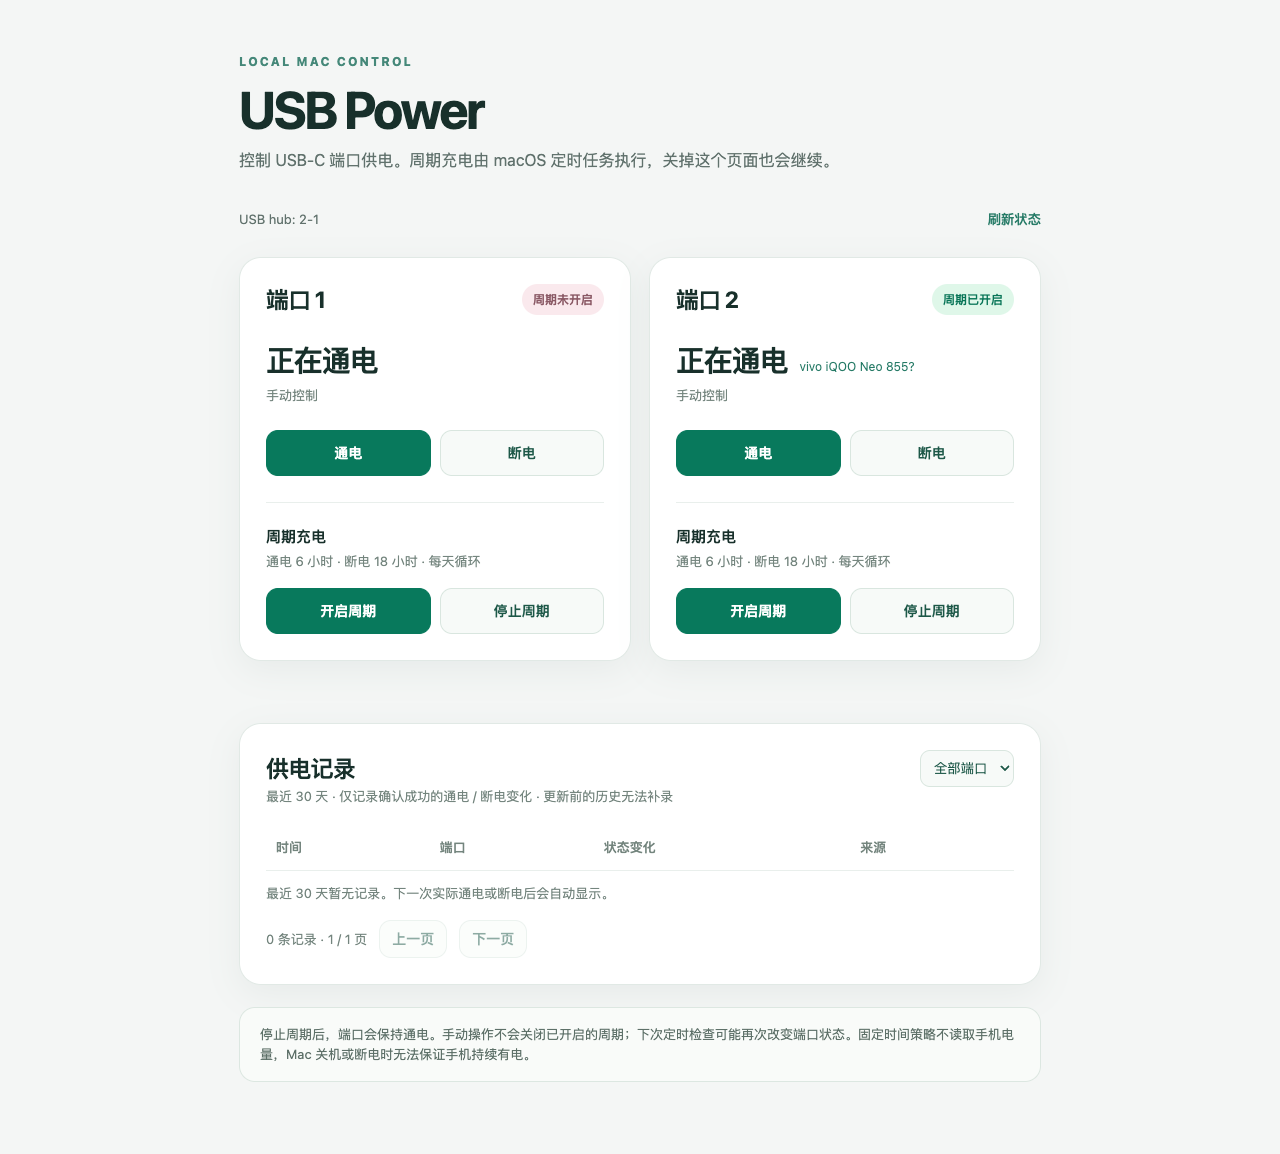
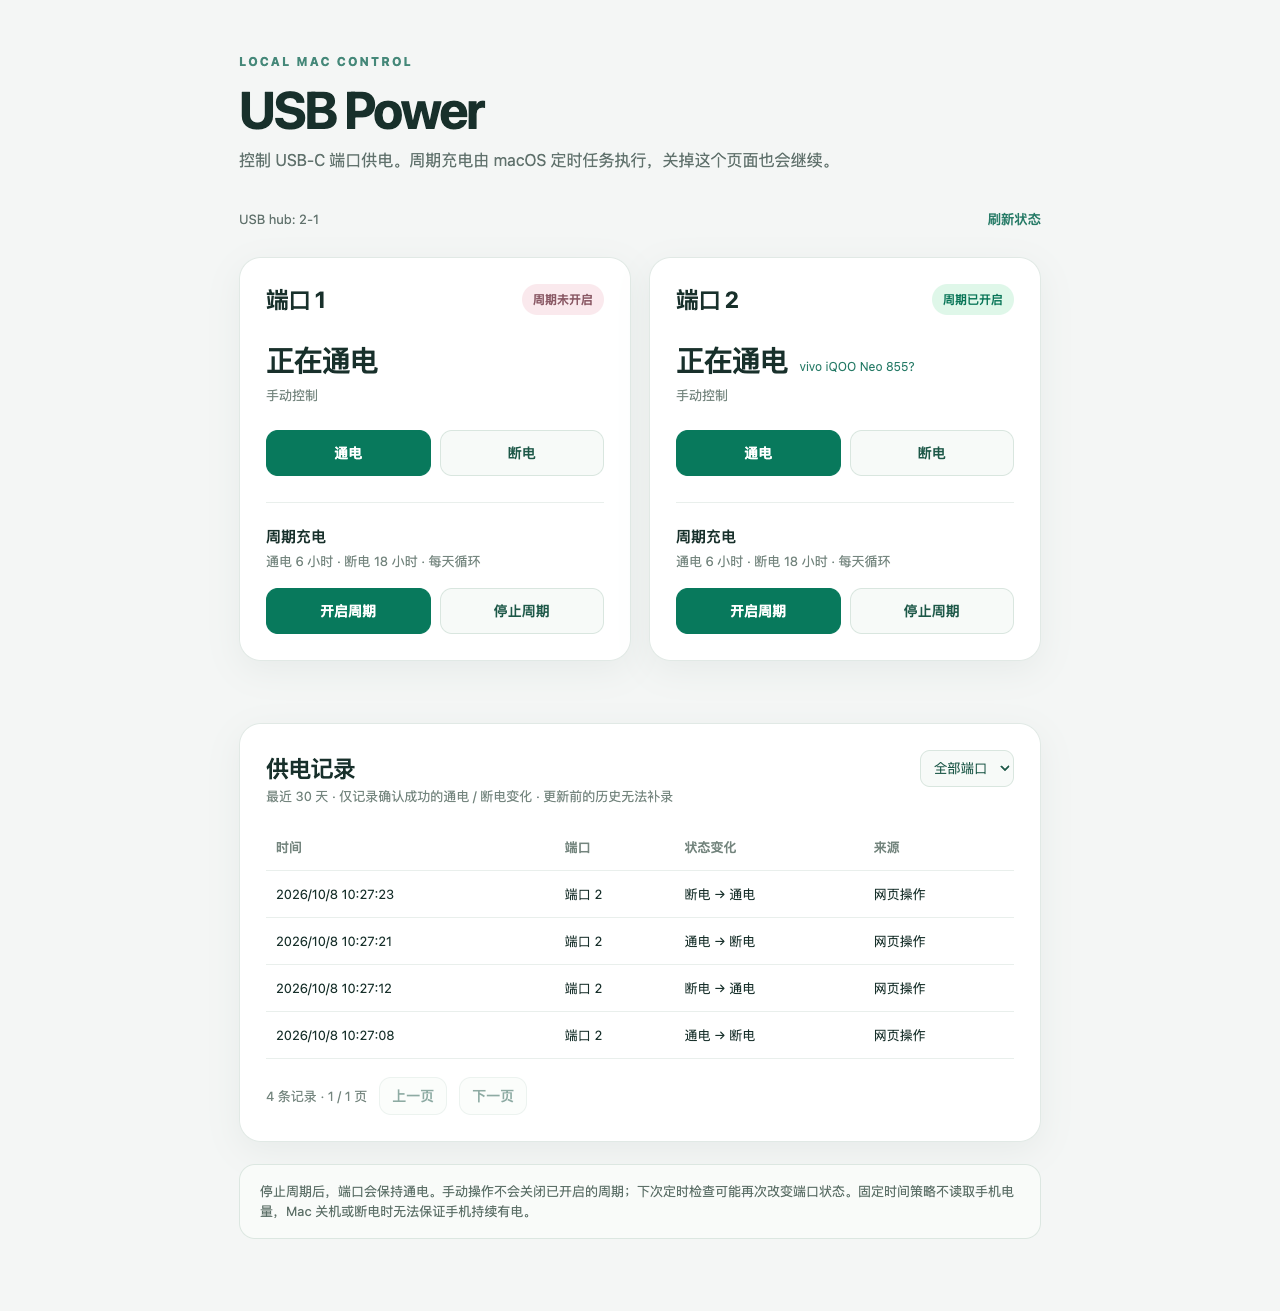
fix(ui): retain last detected device across power switching

diff --git a/index.html b/index.html
@@ -25,6 +25,7 @@
     .state { flex-shrink: 0; font-size: 29px; font-weight: 800; letter-spacing: -.04em; white-space: nowrap; }
     .hint { color: #74857e; font-size: 13px; margin: 0 0 26px; }
     .device { min-width: 0; color: #277b67; font-size: 12px; line-height: 1.5; white-space: nowrap; overflow: hidden; text-overflow: ellipsis; }
+    .device.remembered { color: #74857e; }
     .row { display: flex; gap: 9px; }
     button.action { flex: 1; border: 1px solid #d9e6df; border-radius: 12px; background: #f7faf8; color: #1d5848; padding: 12px 8px; font-size: 14px; font-weight: 700; cursor: pointer; }
     button.action.primary { background: #08795c; color: white; border-color: #08795c; }
@@ -122,9 +123,19 @@
         card.querySelector('.state').textContent = item.power === 'on' ? '正在通电' : item.power === 'off' ? '已断电' : '状态未知';
         card.querySelector('.hint').textContent = item.error || '手动控制';
         const device = card.querySelector('.device');
-        device.hidden = !item.device;
-        device.textContent = item.device || '';
-        device.title = item.device || '';
+        const deviceKey = `usb-power-device:${data.hub}:${port}`;
+        let remembered = card.dataset.lastDeviceHub === data.hub ? card.dataset.lastDevice || '' : '';
+        try {
+          if (item.device) localStorage.setItem(deviceKey, item.device);
+          remembered = localStorage.getItem(deviceKey) || remembered;
+        } catch (_) { /* Keep the in-page cache when browser storage is unavailable. */ }
+        const name = item.device || remembered;
+        card.dataset.lastDevice = name;
+        card.dataset.lastDeviceHub = data.hub;
+        device.hidden = !name;
+        device.classList.toggle('remembered', !item.device);
+        device.textContent = name ? `${name}${item.device ? '' : ' · 上次'}` : '';
+        device.title = name ? `${item.device ? '当前检测到' : '上次检测到，当前无法确认连接'}：${name}` : '';
       }
     }
     async function refresh() {

diff --git a/README.md b/README.md
@@ -37,7 +37,7 @@ The installer links `usb-power` into `~/.local/bin`. Keep the cloned directory i
 
 ## Use
 
-The control panel displays detected USB device names on their port cards. A connected device without a reported name appears as "未知设备" (unknown device); no device label is shown when nothing is detected. Detection also checks the hub's USB3 companion ports. Charge-only devices and devices on powered-off ports may not be detectable.
+The control panel displays detected USB device names on their port cards. A connected device without a reported name appears as "未知设备" (unknown device). The browser remembers the last detected name for each hub/port, so power switching and USB re-enumeration do not erase it. When not currently detected, the remembered name is muted and marked "上次" (last seen); this does not confirm that the device is still plugged in. Ports with no current or remembered device have no label. Detection also checks the hub's USB3 companion ports. Charge-only devices and devices on powered-off ports may not be detectable.
 
 ```bash
 usb-power                # help
